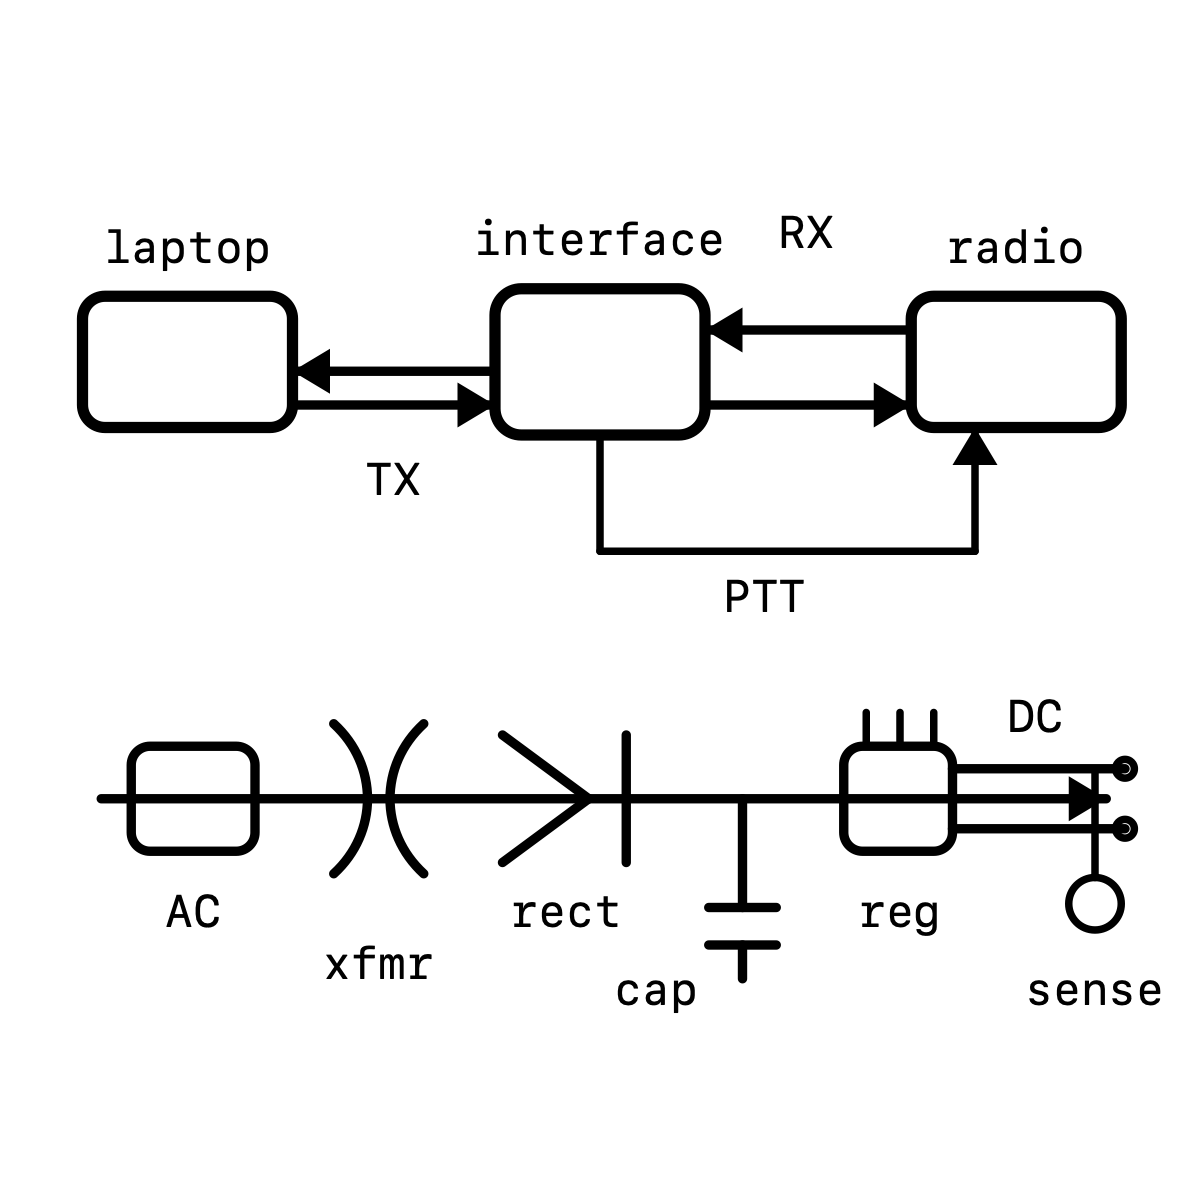
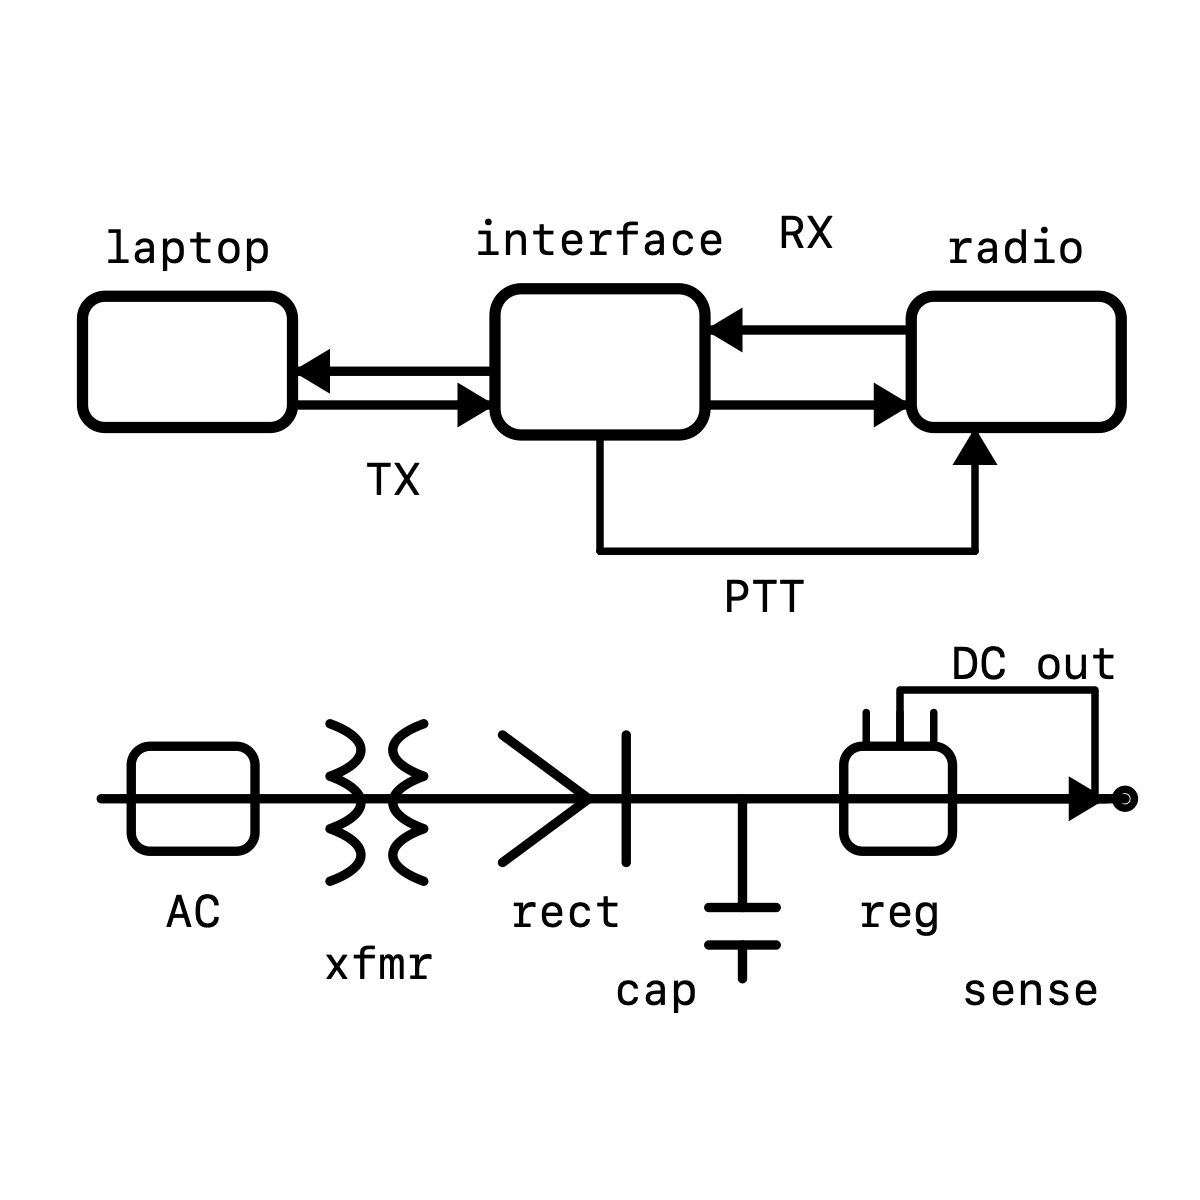
task-38.3: final figure clarity fixes

diff --git a/content/lessons/m3-station-practice-safety/l-003-05-signal-quality-cw-ssb-fm.md b/content/lessons/m3-station-practice-safety/l-003-05-signal-quality-cw-ssb-fm.md
@@ -53,8 +53,8 @@ A variable-frequency oscillator lets a CW transmitter tune anywhere across a ran
 Alt text: Three small panels compare a clean CW carrier, an overdriven SSB voice envelope, and an FM carrier swinging too far from centre.
 Text equivalent:
 - CW panel: a smooth on-off envelope and a square-edged clicks sketch.
-- SSB panel: a clipped waveform flattened at the limit and a splatter label.
-- FM panel: centre line, deviation arrow, and overdev label next to the large arrow.
+- SSB panel: one clipped waveform flattened at the limit with a clipped -> splatter label.
+- FM panel: a centre line, normal small deviation arrows, and over-deviation large arrows beyond dashed limits.
 ::
 
 

diff --git a/content/lessons/m3-station-practice-safety/l-003-03-digital-interfaces-and-power-supplies.md b/content/lessons/m3-station-practice-safety/l-003-03-digital-interfaces-and-power-supplies.md
@@ -59,7 +59,7 @@ Alt text: A split diagram shows a computer audio interface between a transceiver
 Text equivalent:
 - RX arrows run radio to interface to laptop.
 - TX arrows run laptop to interface to radio, and a PTT line runs from the interface to the radio.
-- The supply chain is AC, xfmr, rect, shunt cap, reg, DC, and sense at the output.
+- The supply chain is AC, xfmr coils, rect, shunt cap, reg with fins, one DC out terminal, and a sense feedback line.
 ::
 
 
